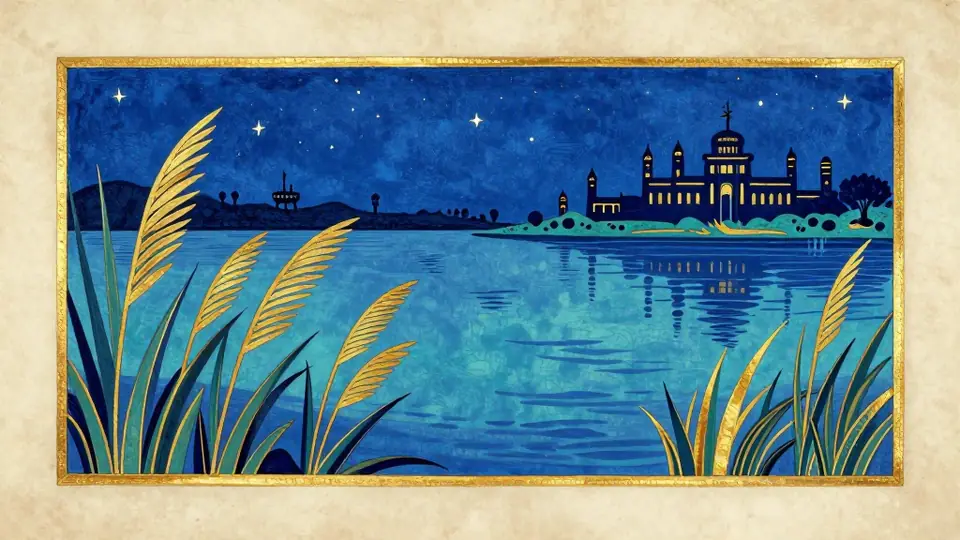
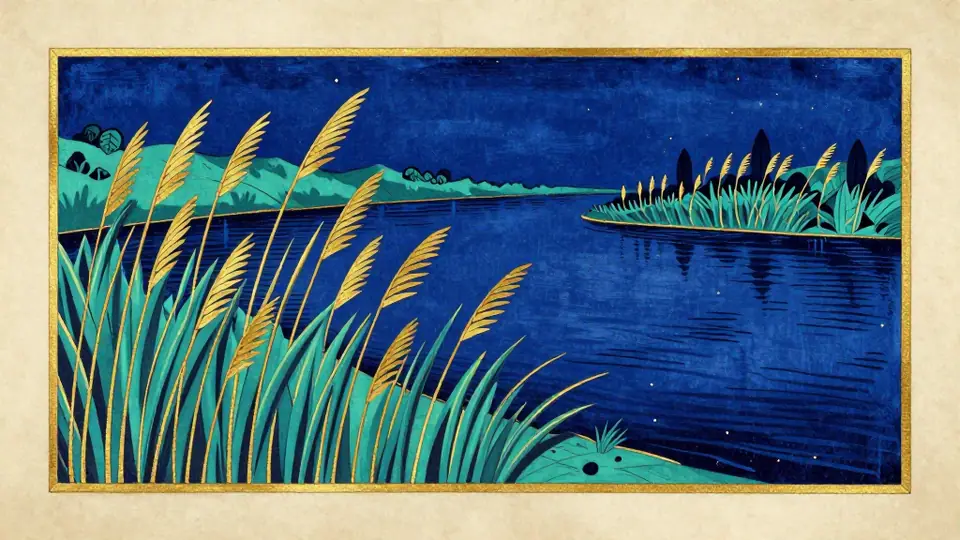
Take the Kaaba and the domes out of the plates
Owner's instruction: no sacred site and no religious emblem in any plate.
That now sits alongside the no-figures rule as a standing constraint on
this set, not a one-off correction.

Four plates carried one. Ibrahim's cover and scene 8 both drew the Kaaba;
his scene 1 came out as a blue-domed shrine when the prompt asked only for
a dwelling; Musa's scene 1 put a domed skyline on the far horizon where
the prompt said "Egyptian palace".

Scene 8 is still about building Allah's House — it shows the site rather
than the building: squared stone stacked ready, a foundation marked out on
the ground, mallets, rope and lanterns, nothing yet raised. Ibrahim's
cover moves to the moment his story actually turns on, the last stars
fading as the sun comes up. Scene 1 becomes the mouth of a cave, which
carries "a baby kept safe" with no architecture at all. Musa's Nile keeps
its reeds and loses the horizon.

kaaba, mosque, minaret, shrine, religious building and star-and-crescent
emblem are in the negative prompt now, so a re-render cannot bring them
back.

Kept deliberately, and written down so a later pass does not churn them:
the natural sun, moon and stars where the Quran's own narrative turns on
them, and plain arches as manuscript decoration. Neither is an emblem.

Claude-Session: https://claude.ai/code/session_01DDGTPDxCHSmFGf9EWdtyPV

diff --git a/UI/scripts/specs/illustrations.py b/UI/scripts/specs/illustrations.py
@@ -36,6 +36,8 @@ NEGATIVE = (
     "text, writing, calligraphy, arabic letters, latin letters, numbers, watermark, "
     "signature, photorealistic, photograph, 3d render, cgi, horror, scary, gore, "
     "rainbow, rainbows, prismatic arc, "
+    "kaaba, mosque, minaret, dome with a finial, shrine, temple, religious building, "
+    "star and crescent emblem, religious symbol, flag, banner with an emblem, "
     "blurry, low quality"
 )
 
@@ -66,10 +68,10 @@ PLATES = {
             "sky, a new world at sunrise",
     },
     "prophet-ibrahim": {
-        "cover": "the Kaaba as a simple stone cube in a desert valley beneath a sky of golden stars "
-                 "and a crescent moon",
-        1: "a small stone dwelling in a quiet desert valley at dawn, date palms, distant hills, "
-           "soft rose and gold light",
+        "cover": "a wide desert horizon at first light, the last few stars fading in a deep violet "
+                 "sky, the sun's first rays rising gold over the dunes",
+        1: "the mouth of a quiet cave in a rocky desert hillside at dawn, date palms below, "
+           "distant hills, soft rose and gold light, sheltered and still",
         2: "an enormous night sky crowded with golden stars above dark desert dunes, "
            "the Milky Way arching over",
         3: "a full silver moon high over a dark blue desert, long shadows on the dunes, "
@@ -82,14 +84,15 @@ PLATES = {
            "instead of orange, calm and strange",
         7: "flames turning into a blooming garden, fire becoming roses and green leaves, "
            "turquoise and gold, flowers opening where the fire was",
-        8: "the Kaaba as a simple stone cube under a starry night sky, open desert ground, "
-           "lanterns on the sand, no crowd",
+        8: "a building site in an open desert valley at dusk, squared blocks of pale cut stone "
+           "stacked ready, a level foundation line marked on the ground, wooden mallets and a "
+           "coil of rope, lanterns on the sand, nothing yet built",
     },
     "prophet-musa": {
         "cover": "a great sea parted into two towering walls of turquoise water with a dry sand path "
                  "running between them",
-        1: "the river Nile at night, tall papyrus reeds along the bank, the silhouette of an Egyptian "
-           "palace far off, stars on the water",
+        1: "the river Nile at night, tall papyrus reeds crowding the bank, still dark water, "
+           "stars reflected on the surface, no buildings on the horizon",
         2: "a small woven basket floating among river reeds on calm water, morning light, "
            "lotus flowers and dragonflies",
         3: "an Egyptian palace courtyard with painted lotus columns, a still reflecting pool, "

diff --git a/UI/TODO.md b/UI/TODO.md
@@ -350,6 +350,19 @@ Carried over from the previous version of this file. Completed items are kept fo
       text beside them carries the count. Do not "fix" this by asking for eleven again.
       Rainbows were removed at the owner's request (Adam 9, Nuh cover, Nuh 7) and `rainbow` is
       in the negative prompt, so a re-render will not bring them back.
+      **No sacred site and no religious emblem in any plate** — owner's instruction, 2026-10-02,
+      and it sits alongside the no-figures rule as a standing constraint on this whole set.
+      Four plates were redrawn for it: Ibrahim's cover and scene 8 had the Kaaba, Ibrahim's
+      scene 1 came out as a blue-domed shrine, and Musa's scene 1 put a domed palace skyline on
+      the horizon. Scene 8 is still *about* building — it now shows the site, with squared stone
+      stacked, a foundation marked out, mallets and rope, and nothing yet built. `kaaba`,
+      `mosque`, `minaret`, `dome with a finial`, `shrine`, `religious building` and
+      `star and crescent emblem` are all in the negative prompt now.
+      Two things were kept on purpose, so a later pass does not churn them: the natural sun, moon
+      and stars where the Quran's own narrative turns on them (Ibrahim 2-4 are the star, the moon
+      and the sun; Yusuf's dream is the sun, the moon and the stars), and plain arcades and
+      arches as manuscript decoration. Neither is an emblem. If the owner wants those gone too,
+      that is a different and much larger pass.
 - [x] ~~**Reading mode toggle**~~ — shipped 2026-09-05 as a **bedtime mode** rather than a
       light/dark/sepia switcher, because the real use case is reading aloud in a dim room. A moon
       button in the navbar of all 20 pages dims the parchment to a warm, low-blue ground; the
